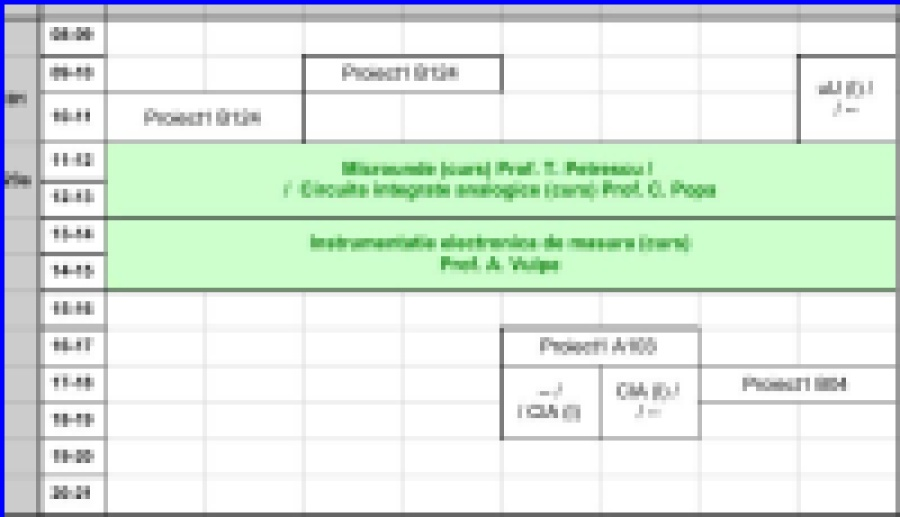
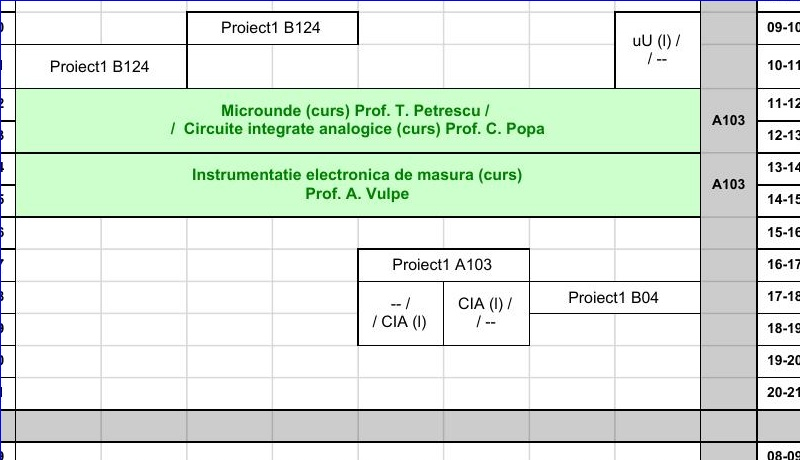
resized orar cells with simple fun

diff --git a/scanOrar.py b/scanOrar.py
@@ -4,6 +4,16 @@ import cv2
 import numpy as np
 import os
 
+def getCoordinatedFromCropped(original, cropped, pointsx, pointsy):
+    kx = round(original.shape[:2][1] / cropped.shape[:2][1])
+    ky = round(original.shape[:2][0] / cropped.shape[:2][0])
+
+    new_pointsx = [kx * p for p in pointsx]
+    new_pointsy = [ky * p for p in pointsy]
+
+    return (min(new_pointsx), min(new_pointsy)), (max(new_pointsx), max(new_pointsy)) # (x, y), (x+w, y+h)
+
+
 def findBottomLeftPointOrar(cnts, img):
     tmpX = img.shape[:2][1] # width
     tmpY = 0
@@ -58,6 +68,8 @@ destSave = 'res/orarJpg.jpg'
 boundaries = [([204, 204, 204], [204, 204, 204])]
 
 img = cv2.imread(destSave)
+resized = img.copy()
+final_orar = img.copy()
 resized = imutils.resize(img, width=1500)
 
 (lower, upper) = boundaries[0]
@@ -95,6 +107,8 @@ for cnt in contours:
     if not cv2.contourArea(cnt) > 20:
         continue
 
+    # not necessary:
+
     x, y, *_ = cv2.boundingRect(cnt)
     cv2.circle(blank_image, (x, y), 1, (0, 255, 0), 1) # mai bun decat draw contours
     # momentan nu mai am nevoie de textul scris in coloanele/randurile delimitatoare gri, deci nu conteaza daca iau punctele de sus/jos - in cazul asta am luat mijlocul (sau coltul stanga jos?) conturului.
@@ -117,7 +131,6 @@ _, binary = cv2.threshold(gray, 0, 255, cv2.THRESH_BINARY_INV | cv2.THRESH_OTSU)
 
 
 contours, hierarchy = cv2.findContours(binary, cv2.RETR_CCOMP, cv2.CHAIN_APPROX_NONE)
-img2 = resized.copy()
 
 for ind, cnt in enumerate(contours):
     
@@ -131,14 +144,15 @@ for ind, cnt in enumerate(contours):
 
     print(cv2.contourArea(cnt))
     x, y, w, h = cv2.boundingRect(cnt)
-    cv2.rectangle(img2, (x, y), (x+w, y+h), (255, 0, 0))
-    ROI = img2[y:y+h, x:x+w]
+    tmp = getCoordinatedFromCropped(final_orar, resized, [x, x+w], [y, y+h])
+    cv2.rectangle(final_orar, tmp[0], tmp[1], (255, 0, 0))
+    print(tmp[0][1], tmp[1][1], tmp[0][0], tmp[0][1])
+    ROI = final_orar[tmp[0][1]:tmp[1][1], tmp[0][0]:tmp[1][0]]
     # cv2.imshow('ROI', ROI)
 
     if not os.path.exists(folder):
         os.makedirs(folder)
 
-    ROI = imutils.resize(ROI, width=900)
     cv2.imwrite(os.path.join(folder, name), ROI)
 
     # if cv2.waitKey() == ord(q):
@@ -148,5 +162,5 @@ for ind, cnt in enumerate(contours):
 # gaseste upper top row points si sa le scada valoarea (aka sa le ridice un pic mai sus). functia findTopLeftPointOrar
 # o sa fie utila pt asta
 
-cv2.imshow('img2', img2)
+cv2.imshow('final_orar', final_orar)
 cv2.waitKey()
